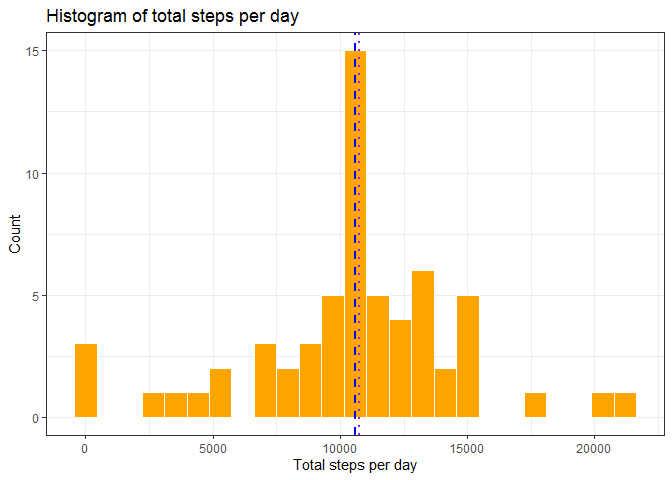
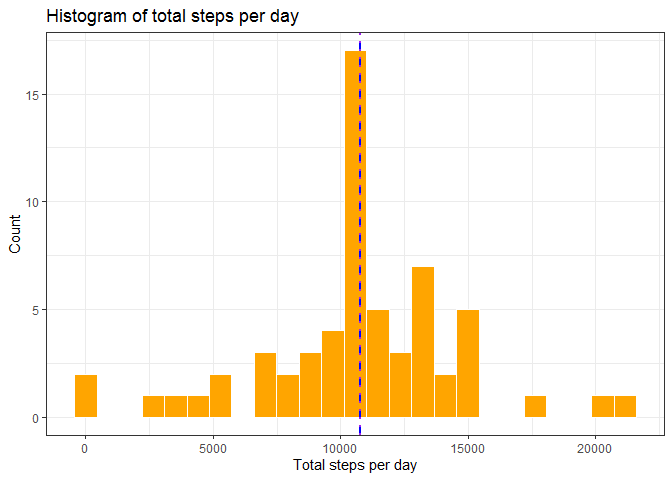
Final commit with code and Markdown file finished.

diff --git a/PA1_template.html b/PA1_template.html
@@ -300,7 +300,10 @@ x2 &lt;- 1
 for (x1 in 1:nrow(activitydatafilled)){
   if (is.na(activitydatafilled$steps[x1]) == TRUE){
     activitydatafilled$steps[x1] &lt;- intervalsteps$average_interval[x2]
-    x2 &lt;- x2 + 1 
+    x2 &lt;- x2 + 1
+    if (x2 &gt;= 288){
+      x2 &lt;- 1
+    }
   }
   else {
     x2 &lt;- 1
@@ -333,21 +336,70 @@ totalstepsfilled %&gt;% ggplot(aes(x = total)) +
   ylab(&quot;Count&quot;) + 
   xlab(&quot;Total steps per day&quot;) +
   theme_bw()</code></pre>
[2 lines of base64/hex data omitted]
 <p>And the differences in the mean and median for this question are the following:</p>
 <pre class="r"><code>meanq3 &lt;- mean(totalstepsfilled$total, na.rm = TRUE)
 print(meanq3) #mean of filled dataset</code></pre>
-<pre><code>## [1] 10589.69</code></pre>
+<pre><code>## [1] 10766.25</code></pre>
 <pre class="r"><code>print(meanq1) #mean of dataset with NA's</code></pre>
 <pre><code>## [1] 9354.23</code></pre>
 <pre class="r"><code>medianq3 &lt;- median(totalstepsfilled$total, na.rm = TRUE)
 print(medianq3) #median of filled dataset</code></pre>
-<pre><code>## [1] 10766.19</code></pre>
+<pre><code>## [1] 10766.83</code></pre>
 <pre class="r"><code>print(medianq1) #median of dataset with NA's</code></pre>
 <pre><code>## [1] 10395</code></pre>
 </div>
 <div id="are-there-differences-in-activity-patterns-between-weekdays-and-weekends" class="section level2">
 <h2>Are there differences in activity patterns between weekdays and weekends?</h2>
+<p>Firstly, a factor variable must be created that indicates whether a given date is a weekday or weekend</p>
+<pre class="r"><code>activitydatafilledday &lt;- activitydatafilled
+
+weekday &lt;- c(&quot;lunes&quot;, &quot;martes&quot;, &quot;miércoles&quot;, &quot;jueves&quot;, &quot;viernes&quot;)
+weekend &lt;- c(&quot;sábado&quot;, &quot;domingo&quot;)
+
+activitydatafilledday$weekday &lt;- weekdays(activitydatafilledday$date)
+
+for (i in 1:nrow(activitydatafilledday)){
+  if (activitydatafilledday$weekday[i] %in% weekday){
+    activitydatafilledday$weekday[i] &lt;- &quot;weekday&quot;
+  }
+  else {
+    activitydatafilledday$weekday[i] &lt;- &quot;weekend&quot;
+  }
+}
+
+activitydatafilledday$weekday &lt;- as.factor(activitydatafilledday$weekday)</code></pre>
+<p>And then a panel plot is created. In order to check differences in means, a new dataframe is created to store the mean values and plot them as well</p>
+<pre class="r"><code>#data wrangling
+activitydatafilleddayfinal &lt;- activitydatafilledday %&gt;% 
+  group_by(weekday, interval) %&gt;% 
+  summarise(avg_steps = mean(steps))
+
+
+#mean_days stores the step means per factor
+mean_days &lt;- activitydatafilledday %&gt;% 
+  group_by(weekday) %&gt;% 
+  summarise(avg_steps = mean(steps))
+
+#final plot
+activitydatafilleddayfinal %&gt;% ggplot(aes(x = interval, y = avg_steps)) +
+  geom_line(color=&quot;black&quot;, lty = 2, lwd = .5) +
+  ggtitle(&quot;Average steps measured during weekdays and weekends&quot;) + 
+  ylab(&quot;Average steps number&quot;) +
+  xlab(&quot;5-minute interval&quot;) +
+  facet_wrap(~weekday) + 
+  geom_hline(data = mean_days, aes(yintercept = avg_steps)) +
+  theme_light()</code></pre>
[1 lines of base64/hex data omitted]
+</div>
+<div id="conclusions" class="section level2">
+<h2>Conclusions</h2>
+<p>Finally, it is clear that there are some difference between weekdays and weekends.</p>
+<ul>
+<li>The highest number during weekdays is in the morning, around 08:35. Depending on the country in which this data was taken, that could show people commuting to their jobs. After that peak, the steps number is relatively low, meaning that they started their daily job.</li>
+<li>The time interval clearly shows at what time the average person starts their day: during weekdays, at around 05:00. During weekends, around 07:30.</li>
+<li>The overall shape of the plots may suggest that people walk more during weekdays than during weekends: By putting the mean of each day on the each plot, we can see that in reality the mean is higher for weekends. The number of steps is consistently higher due to many factors, such as hiking, walking to grocery stores, among others.</li>
+</ul>
 </div>
 
 

diff --git a/PA1_template.md b/PA1_template.md
@@ -217,7 +217,10 @@ x2 <- 1
 for (x1 in 1:nrow(activitydatafilled)){
   if (is.na(activitydatafilled$steps[x1]) == TRUE){
     activitydatafilled$steps[x1] <- intervalsteps$average_interval[x2]
-    x2 <- x2 + 1 
+    x2 <- x2 + 1
+    if (x2 >= 288){
+      x2 <- 1
+    }
   }
   else {
     x2 <- 1
@@ -275,7 +278,7 @@ print(meanq3) #mean of filled dataset
 ```
 
 ```
-## [1] 10589.69
+## [1] 10766.25
 ```
 
 ```r
@@ -292,7 +295,7 @@ print(medianq3) #median of filled dataset
 ```
 
 ```
-## [1] 10766.19
+## [1] 10766.83
 ```
 
 ```r
@@ -303,3 +306,59 @@ print(medianq1) #median of dataset with NA's
 ## [1] 10395
 ```
 ## Are there differences in activity patterns between weekdays and weekends?
+Firstly, a factor variable must be created that indicates whether a given date is a weekday or weekend
+
+
+```r
+activitydatafilledday <- activitydatafilled
+
+weekday <- c("lunes", "martes", "miércoles", "jueves", "viernes")
+weekend <- c("sábado", "domingo")
+
+activitydatafilledday$weekday <- weekdays(activitydatafilledday$date)
+
+for (i in 1:nrow(activitydatafilledday)){
+  if (activitydatafilledday$weekday[i] %in% weekday){
+    activitydatafilledday$weekday[i] <- "weekday"
+  }
+  else {
+    activitydatafilledday$weekday[i] <- "weekend"
+  }
+}
+
+activitydatafilledday$weekday <- as.factor(activitydatafilledday$weekday)
+```
+
+And then a panel plot is created. In order to check differences in means, a new dataframe is created to store the mean values and plot them as well
+
+```r
+#data wrangling
+activitydatafilleddayfinal <- activitydatafilledday %>% 
+  group_by(weekday, interval) %>% 
+  summarise(avg_steps = mean(steps))
+
+
+#mean_days stores the step means per factor
+mean_days <- activitydatafilledday %>% 
+  group_by(weekday) %>% 
+  summarise(avg_steps = mean(steps))
+
+#final plot
+activitydatafilleddayfinal %>% ggplot(aes(x = interval, y = avg_steps)) +
+  geom_line(color="black", lty = 2, lwd = .5) +
+  ggtitle("Average steps measured during weekdays and weekends") + 
+  ylab("Average steps number") +
+  xlab("5-minute interval") +
+  facet_wrap(~weekday) + 
+  geom_hline(data = mean_days, aes(yintercept = avg_steps)) +
+  theme_light()
+```
+
+![](PA1_template_files/figure-html/unnamed-chunk-19-1.png)<!-- -->
+
+##Conclusions
+Finally, it is clear that there are some difference between weekdays and weekends. 
+
+* The highest number during weekdays is in the morning, around 08:35. Depending on the country in which this data was taken, that could show people commuting to their jobs. After that peak, the steps number is relatively low, meaning that they started their daily job. 
+* The time interval clearly shows at what time the average person starts their day: during weekdays, at around 05:00. During weekends, around 07:30.
+* The overall shape of the plots may suggest that people walk more during weekdays than during weekends: By putting the mean of each day on the each plot, we can see that in reality the mean is higher for weekends. The number of steps is consistently higher due to many factors, such as hiking, walking to grocery stores, among others.
